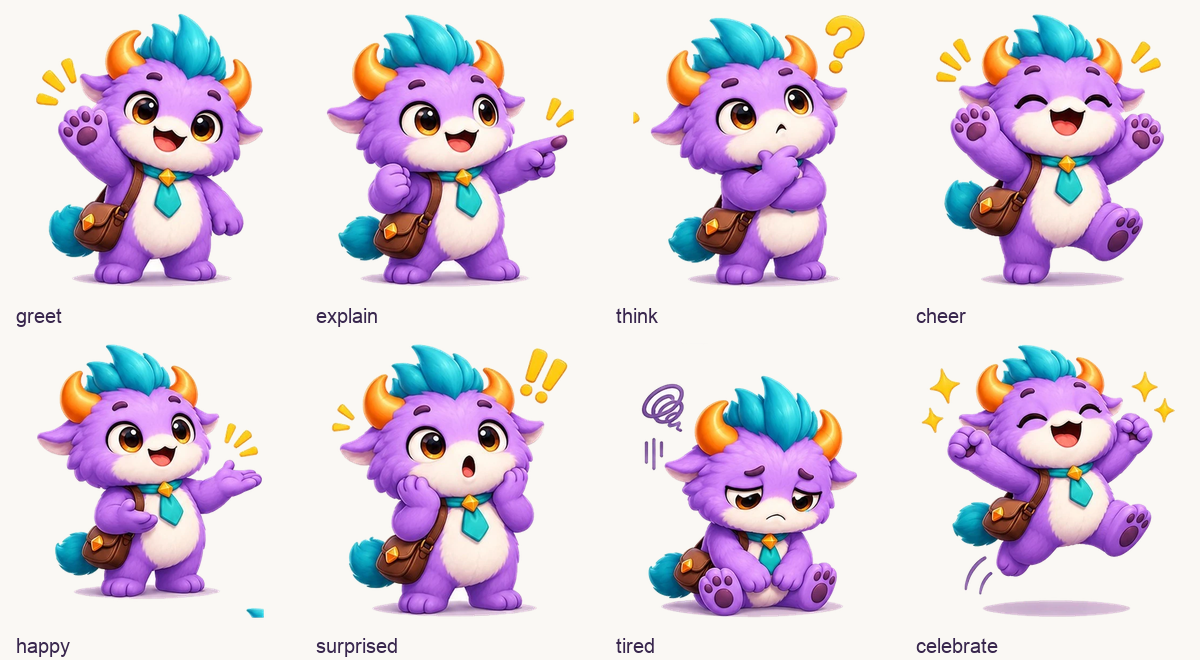
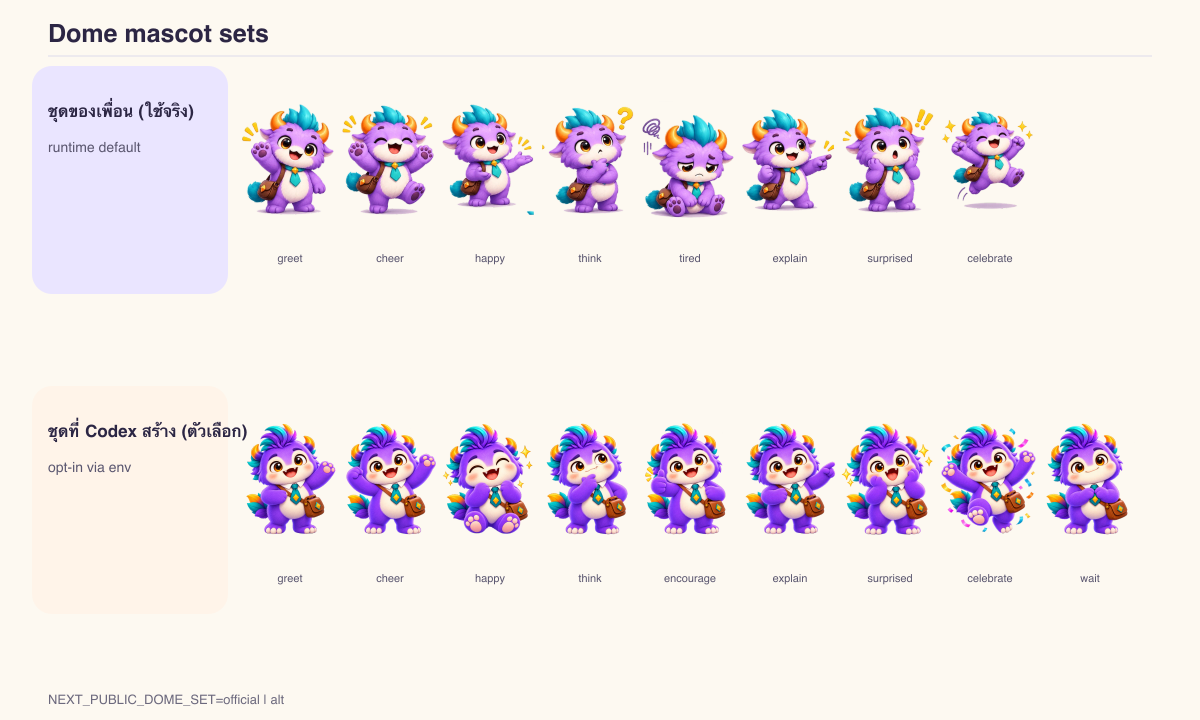
feat: keep generated Dome set as optional alt

diff --git a/components/ui/speech-bubble.tsx b/components/ui/speech-bubble.tsx
@@ -23,18 +23,37 @@ const MOOD_ALT: Record<DomeMood, string> = {
   wait: 'โดมยืนรอฟังอย่างตั้งใจ',
 }
 
-const DOME_ASSET: Record<DomeMood, string> = {
-  greet: '/dome/mascot/dome-greet.webp',
-  cheer: '/dome/mascot/dome-cheer.webp',
-  happy: '/dome/mascot/dome-happy.webp',
-  think: '/dome/mascot/dome-think.webp',
-  tired: '/dome/mascot/dome-tired.webp',
-  // ชีตทางการไม่มี pose แยกสำหรับสองอารมณ์นี้ จึงใช้ pose ทางการที่ใกล้ที่สุด
-  encourage: '/dome/mascot/dome-cheer.webp',
-  explain: '/dome/mascot/dome-explain.webp',
-  surprised: '/dome/mascot/dome-surprised.webp',
-  celebrate: '/dome/mascot/dome-celebrate.webp',
-  wait: '/dome/mascot/dome-think.webp',
+type DomeSet = 'official' | 'alt'
+
+const DOME_SET: DomeSet = process.env.NEXT_PUBLIC_DOME_SET === 'alt' ? 'alt' : 'official'
+
+const DOME_ASSET: Record<DomeSet, Record<DomeMood, string>> = {
+  official: {
+    greet: '/dome/mascot/dome-greet.webp',
+    cheer: '/dome/mascot/dome-cheer.webp',
+    happy: '/dome/mascot/dome-happy.webp',
+    think: '/dome/mascot/dome-think.webp',
+    tired: '/dome/mascot/dome-tired.webp',
+    // ชีตทางการไม่มี pose แยกสำหรับสองอารมณ์นี้ จึงใช้ pose ทางการที่ใกล้ที่สุด
+    encourage: '/dome/mascot/dome-cheer.webp',
+    explain: '/dome/mascot/dome-explain.webp',
+    surprised: '/dome/mascot/dome-surprised.webp',
+    celebrate: '/dome/mascot/dome-celebrate.webp',
+    wait: '/dome/mascot/dome-think.webp',
+  },
+  alt: {
+    greet: '/dome/mascot/alt/dome-greet.webp',
+    cheer: '/dome/mascot/alt/dome-cheer.webp',
+    happy: '/dome/mascot/alt/dome-happy.webp',
+    think: '/dome/mascot/alt/dome-think.webp',
+    // ชุดตัวเลือกเดิมไม่มี pose tired จึงใช้ pose think ที่ใกล้ที่สุด
+    tired: '/dome/mascot/alt/dome-think.webp',
+    encourage: '/dome/mascot/alt/dome-encourage.webp',
+    explain: '/dome/mascot/alt/dome-explain.webp',
+    surprised: '/dome/mascot/alt/dome-surprised.webp',
+    celebrate: '/dome/mascot/alt/dome-celebrate.webp',
+    wait: '/dome/mascot/alt/dome-wait.webp',
+  },
 }
 
 export type DomeAvatarProps = {
@@ -70,7 +89,7 @@ export function DomeAvatar({
   const img = (
     // eslint-disable-next-line @next/next/no-img-element -- mascot เป็นไฟล์สถิตในโฟลเดอร์ public ไม่ต้องผ่านตัวปรับขนาดภาพ
     <img
-      src={DOME_ASSET[mood]}
+      src={DOME_ASSET[DOME_SET][mood]}
       alt={decorative ? '' : MOOD_ALT[mood]}
       aria-hidden={decorative || undefined}
       width={size}

diff --git a/docs/design-system.md b/docs/design-system.md
@@ -370,7 +370,16 @@ className เดียวกันเลย มันเกิดจากลู
 | `icons/star-full.svg` · `star-empty.svg` | ดาวเต็ม / ดาวว่าง |
 | `icons/badge-certificate.svg` | ตราเกียรติบัตร |
 
-มาสคอตชุดนี้ตัดจากชีตทางการของทีมใน `UI/mascot/dome-sheet-official.jpg` และเป็น canonical runtime art (พื้นหลังโปร่งใส WebP ใน `public/dome/mascot/`); `encourage` ใช้ pose `cheer` และ `wait` ใช้ pose `think` เพราะชีตไม่มี pose แยก. ห้ามใช้ `tired` กับ feedback คำตอบผิด — ใช้ได้เฉพาะพัก/พักก่อนหรือ network-error screen. ภาพแผนที่เกาะใน `UI/03 คุยกับโดม/*.png` ยังเป็นงาน teammate รุ่นผมเก่าและจงใจคงไว้ ไม่ใช่ runtime mascot set.
+มาสคอตชุดทางการของทีมใน `UI/mascot/dome-sheet-official.jpg` คือ **ชุดที่ใช้จริง** (พื้นหลังโปร่งใส WebP ใน `public/dome/mascot/`). `encourage` ใช้ pose `cheer` และ `wait` ใช้ pose `think` เพราะชีตทางการไม่มี pose แยก. ห้ามใช้ `tired` กับ feedback คำตอบผิด — ใช้ได้เฉพาะพัก/พักก่อนหรือ network-error screen. ภาพแผนที่เกาะใน `UI/03 คุยกับโดม/*.png` ยังเป็นงาน teammate รุ่นผมเก่าและจงใจคงไว้ ไม่ใช่ runtime mascot set.
+
+ชุดมาสคอตที่ Codex สร้างไว้ก่อนหน้าเก็บเป็น **ตัวเลือกเท่านั้น** ใน `public/dome/mascot/alt/` และไม่ถูกใช้โดยค่าเริ่มต้น หากต้องการสลับทั้งแอป ให้ตั้ง environment variable ก่อนรันหรือ build:
+
+```bash
+NEXT_PUBLIC_DOME_SET=official # ค่าเริ่มต้น — ชุดของเพื่อน (ใช้จริง)
+NEXT_PUBLIC_DOME_SET=alt       # ชุดที่ Codex สร้าง (ตัวเลือก)
+```
+
+ค่าที่ไม่ใช่ `alt` จะถูกตีความเป็น `official`. ในชุด `alt` mood `tired` ไม่มีไฟล์ต้นฉบับ จึง fallback ไปที่ `think`; ในชุดทางการ `encourage` → `cheer` และ `wait` → `think` ตาม pose ที่ใกล้ที่สุด.
 
 > **ไอคอนมี 2 ที่โดยตั้งใจ** — `components/ui/icons.tsx` เป็น inline SVG ใช้ `currentColor` จึงเปลี่ยนสีตามสถานะ active ได้ (`<img>` ทำไม่ได้) ส่วนไฟล์ใน `public/icons/` เป็นภาพชุดเดียวกันไว้ใช้ตอนต้องการไฟล์จริง เช่น og-image, PDF เกียรติบัตร, ส่งให้ฝ่ายสื่อ **แก้ที่ไหนต้องแก้ทั้งสองที่**
 
